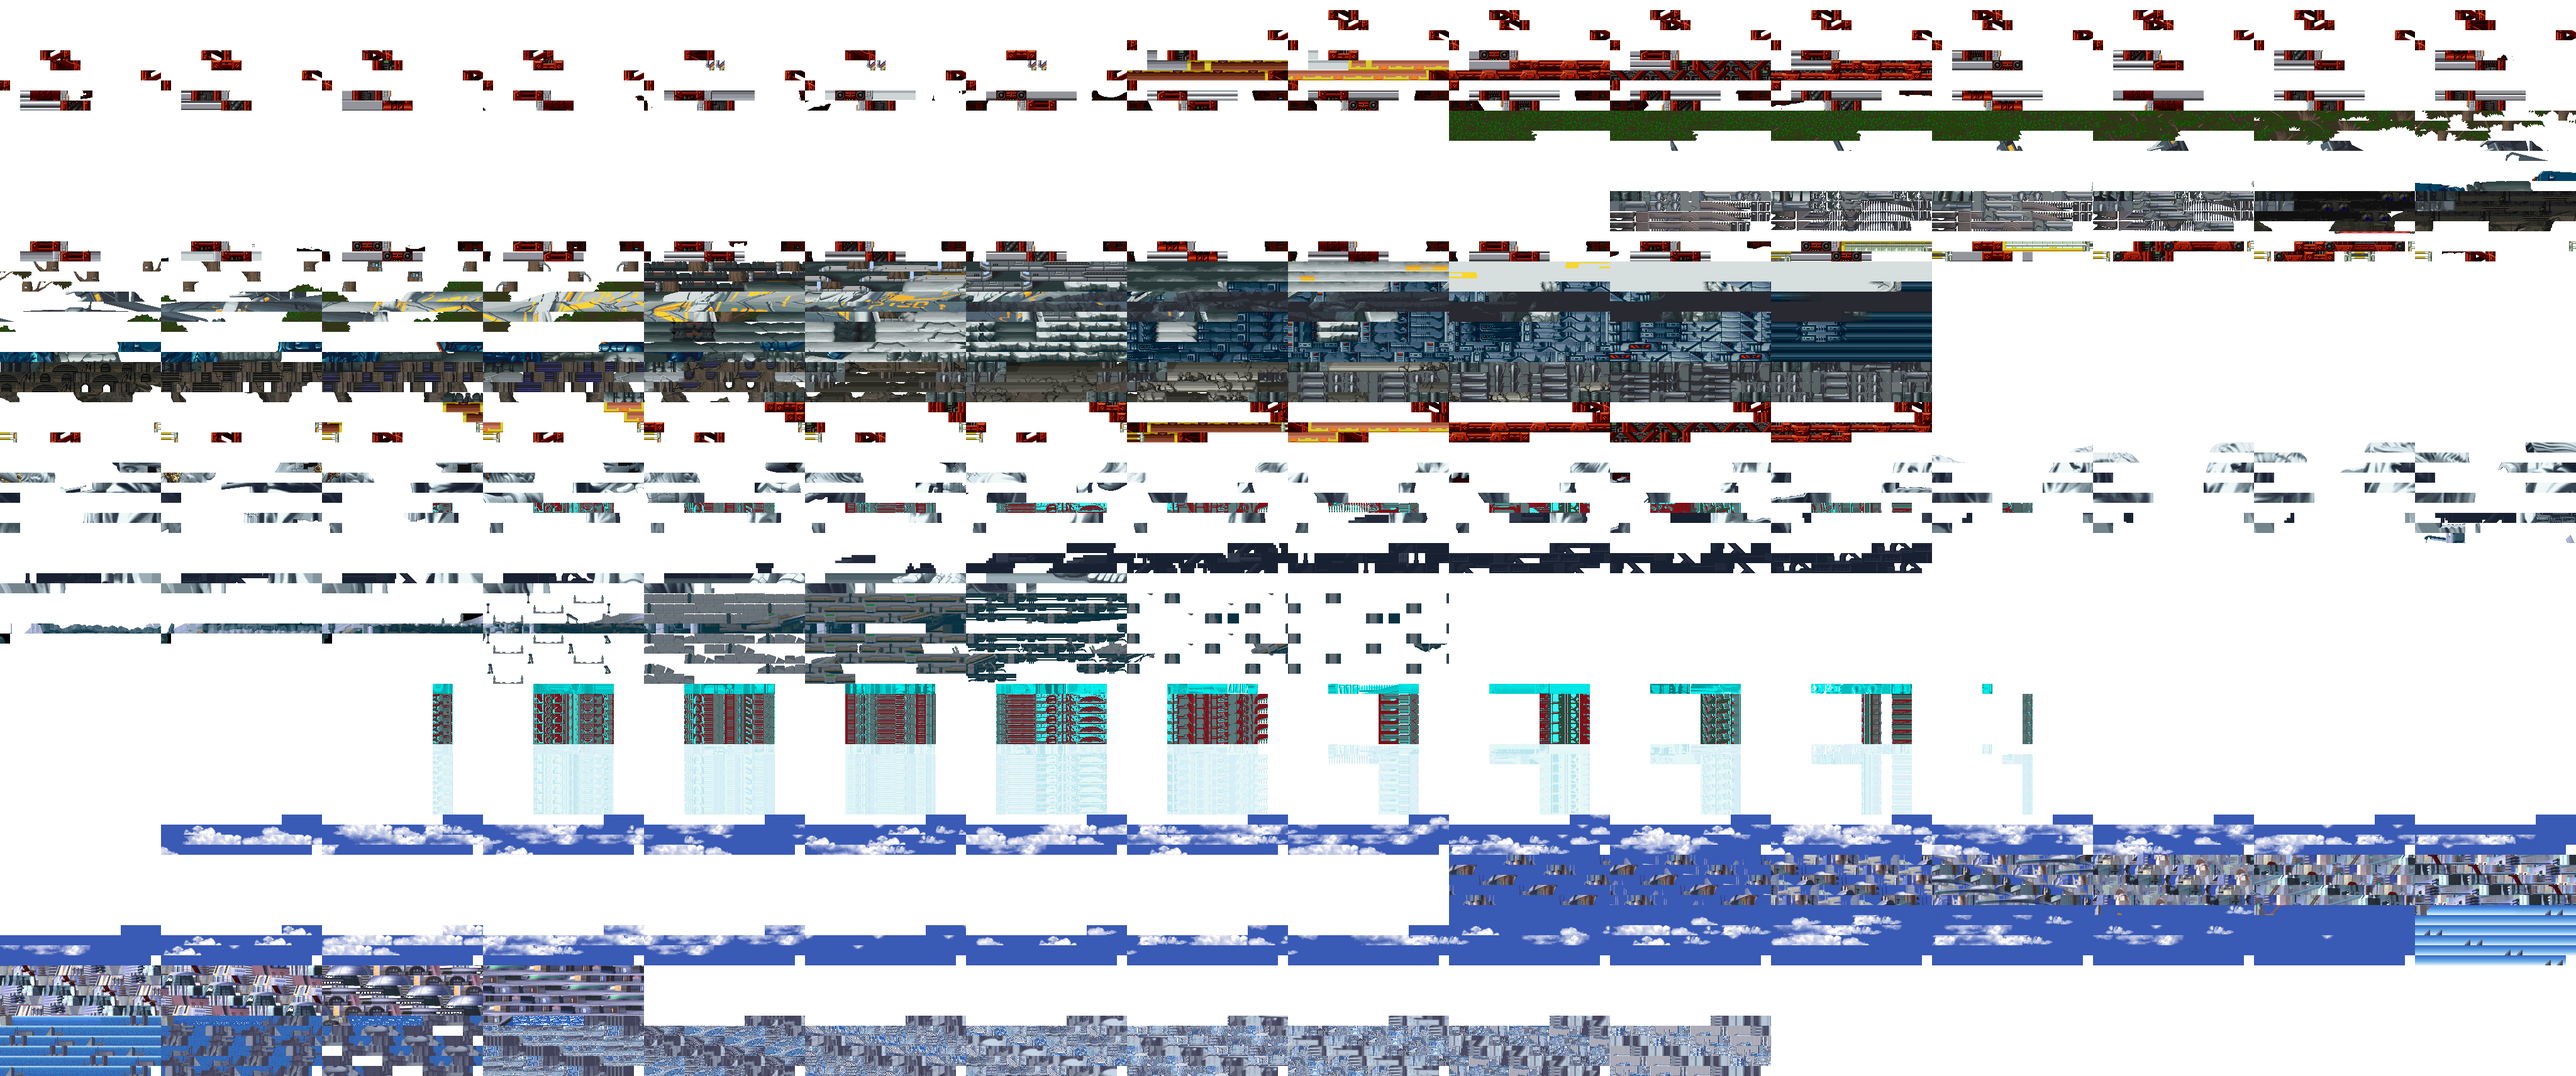
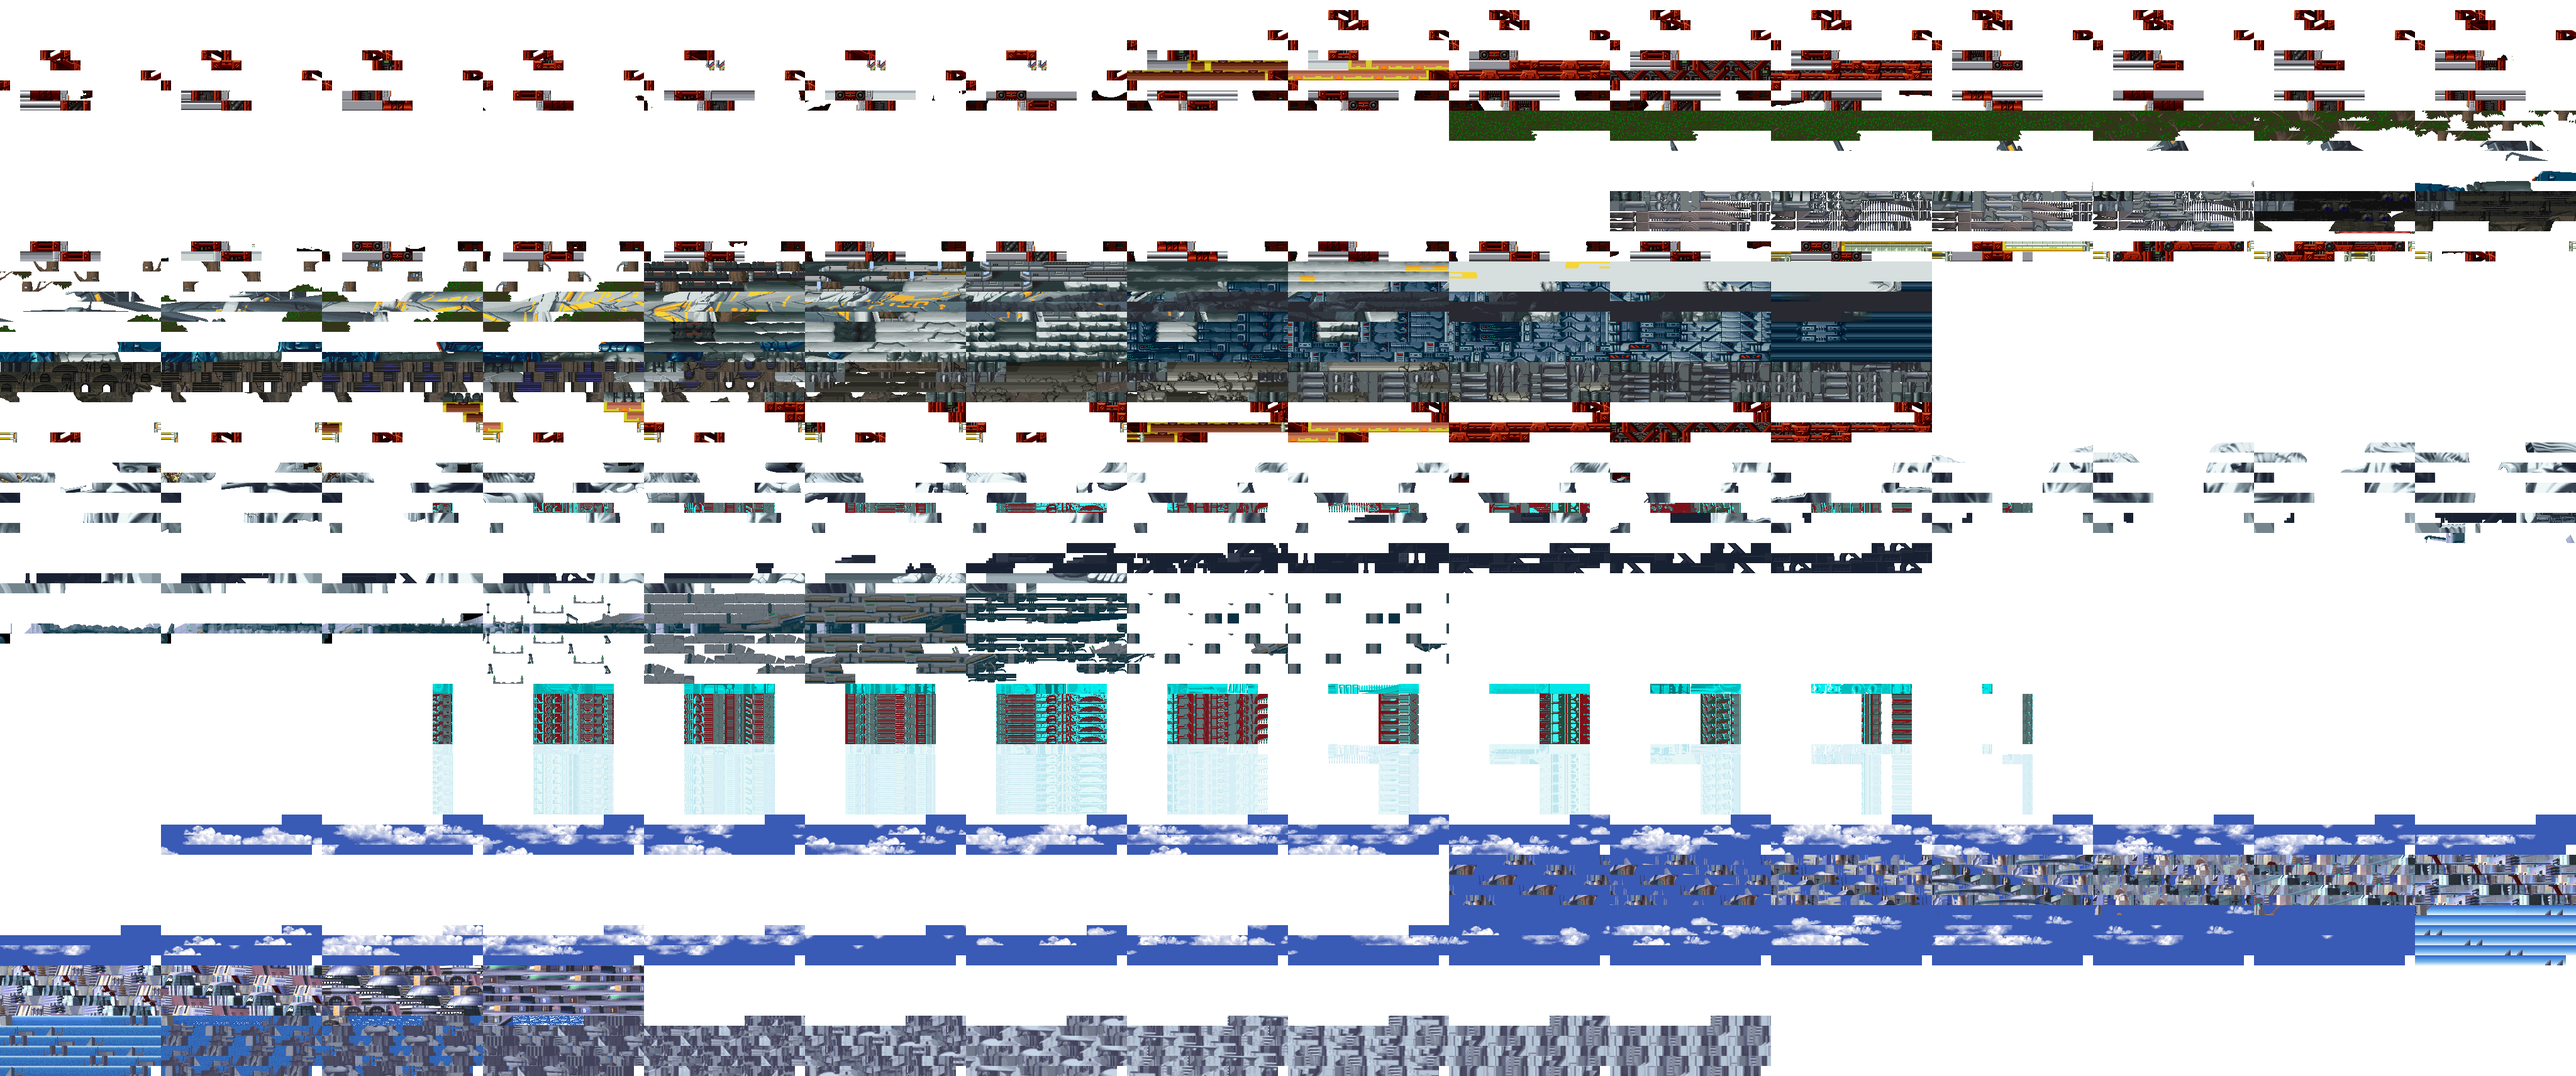
omp.py - improved rendering

Changed region(s): [[0.125, 0.9287, 0.6875, 1.0]]

diff --git a/utils/omp.py b/utils/omp.py
@@ -410,9 +410,9 @@ def _build_chr256_ocl_indices(ocl_entries: list[OclEntry]) -> frozenset[int]:
               same-col, tile_type==0x38 non-first entry).
       Pass 2: mark chr256 only for non-first entries in non-blocked groups
               whose col differs from the first entry's col.
-              Also mark standalone type==0x38 entries (sole entry at their
-              key, no base tile exists in tex) as chr256 — their pixel data
-              lives in tex_bg rather than tex.
+              Also mark standalone entries (sole entry at their key, regardless
+              of tile_type) as chr256 — their pixel data lives in tex_bg rather
+              than tex (tex is empty at those coordinates).
 
     Pages ≥ 8 are handled separately via col==112 in _resolve_tile.
     """
@@ -447,9 +447,11 @@ def _build_chr256_ocl_indices(ocl_entries: list[OclEntry]) -> frozenset[int]:
         if page >= 8:
             continue
         key = (page, e.clut_base)
-        # Standalone hit-flash entry: only occurrence at this coord and type==0x38.
-        # Its pixel data is stored in tex_bg, not tex.
-        if key_count[key] == 1 and e.tile_type == 0x38:
+        # Standalone entry: sole occurrence at this coord, regardless of tile_type.
+        # Its pixel data is stored in tex_bg rather than tex (tex is empty at these
+        # coordinates).  Entries where both sheets have identical data are also safe
+        # to read from tex_bg.
+        if key_count[key] == 1:
             chr256.add(i)
             continue
         if key in seen:
